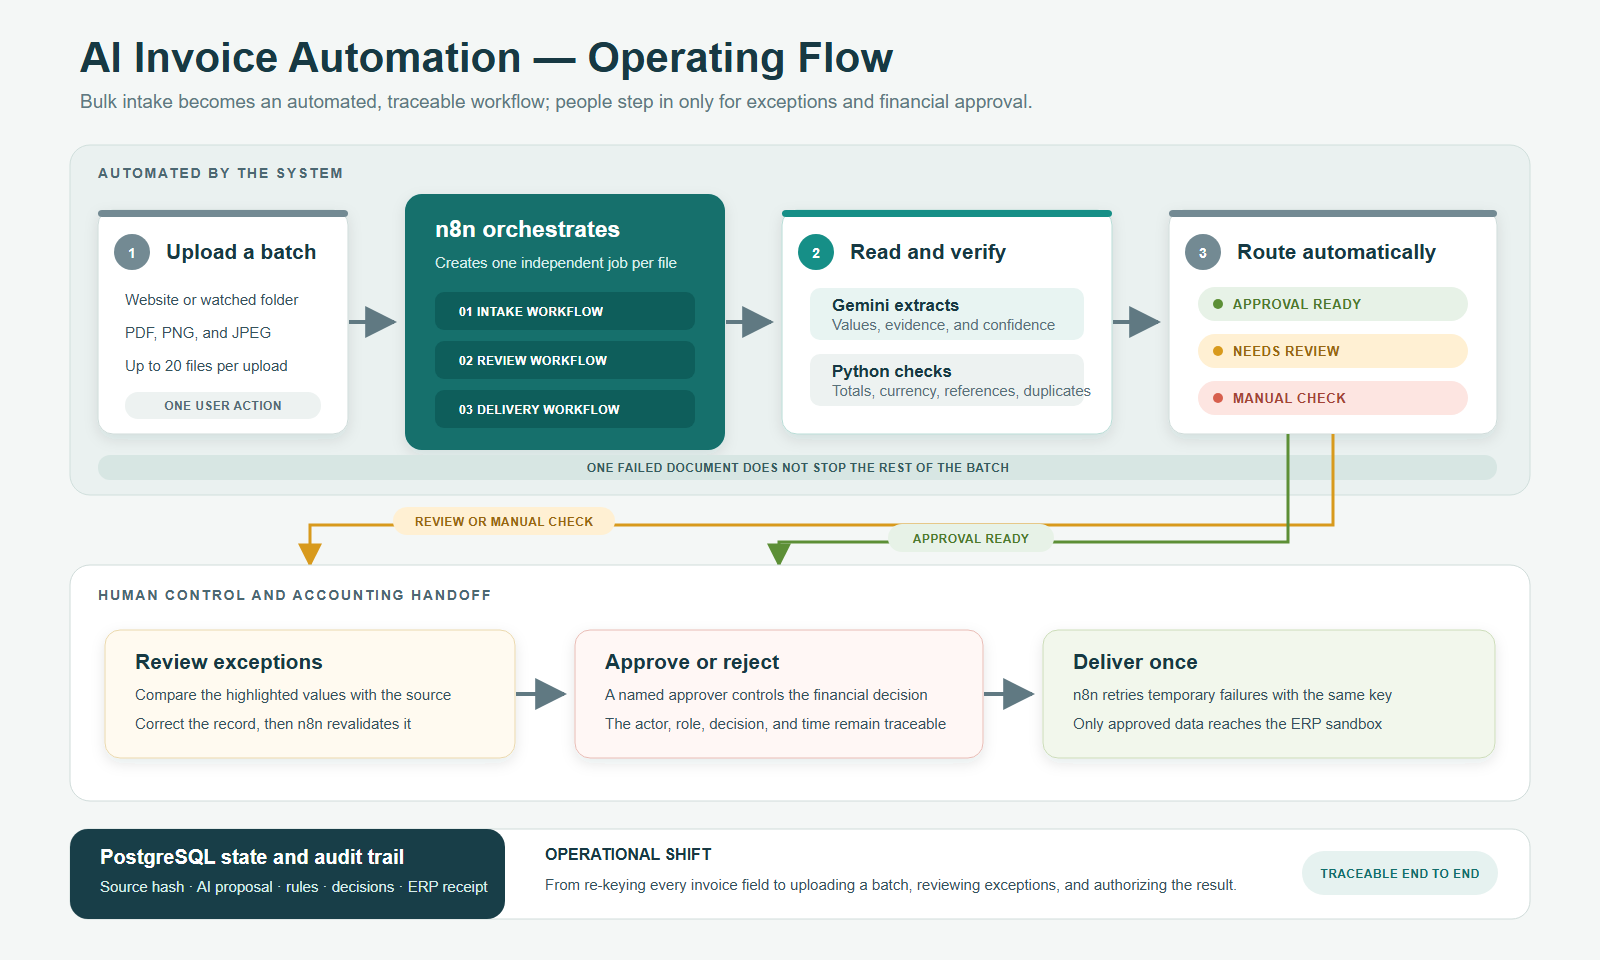
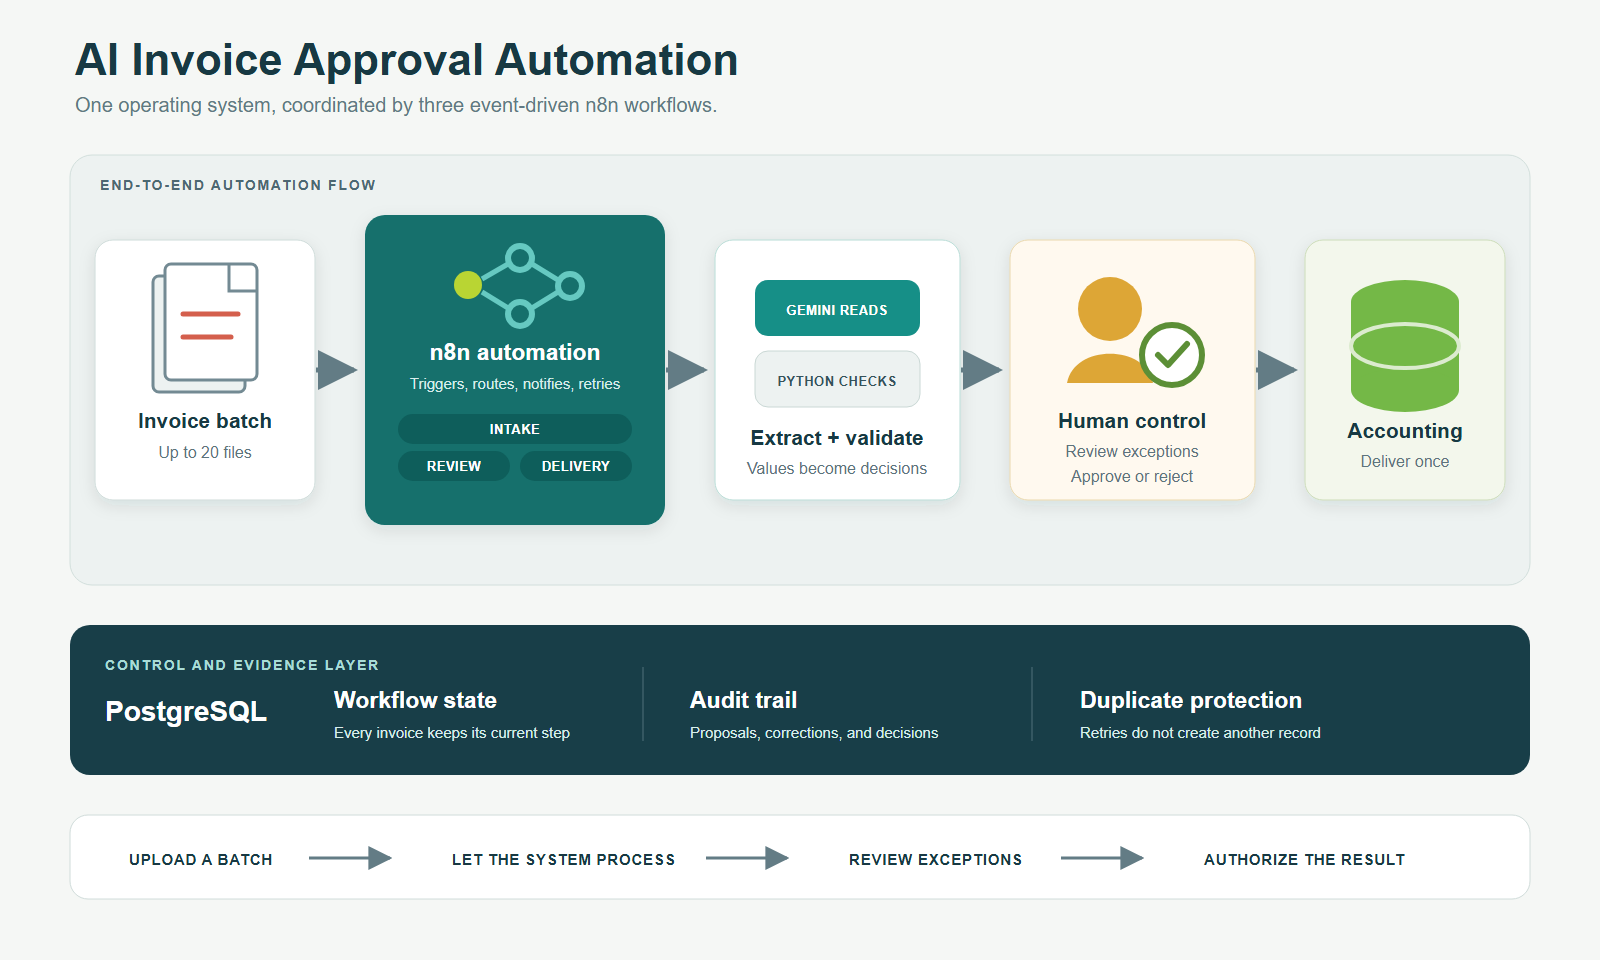
Simplify invoice automation portfolio visual

diff --git a/index.html b/index.html
@@ -199,10 +199,10 @@
               </div>
               <div class="project-result-column">
                 <figure class="project-visual">
-                  <a class="project-image-link" href="assets/projects/ai-invoice-automation.png?v=20260805d" target="_blank" rel="noopener noreferrer" aria-label="Open the AI invoice automation operating flow at full size">
-                    <img src="assets/projects/ai-invoice-automation.png?v=20260805d" alt="AI invoice automation swimlane showing batch intake, three n8n workflows, Gemini extraction, Python controls, automatic routing, human review and approval, ERP delivery, and PostgreSQL audit state" width="1600" height="960" decoding="async">
+                  <a class="project-image-link" href="assets/projects/ai-invoice-automation.png?v=20260805e" target="_blank" rel="noopener noreferrer" aria-label="Open the AI invoice automation operating flow at full size">
+                    <img src="assets/projects/ai-invoice-automation.png?v=20260805e" alt="AI invoice automation flow showing invoice batch intake, three coordinated n8n workflows, Gemini extraction, Python validation, human control, accounting delivery, and PostgreSQL evidence" width="1600" height="960" decoding="async">
                   </a>
-                  <figcaption>Operational flow showing what n8n automates, which documents need human attention, and how approved records reach accounting safely.</figcaption>
+                  <figcaption>One project is split into three n8n workflows so intake, human review, and accounting delivery can start independently and be retried safely.</figcaption>
                 </figure>
                 <p class="metric-context"><strong>Public-Document Exploration</strong><span>These figures describe the reviewed internet-invoice run and the implemented upload capacity; they are not an overall accuracy score.</span></p>
                 <div class="metric-row" aria-label="AI invoice automation public-document exploration and batch capacity">
